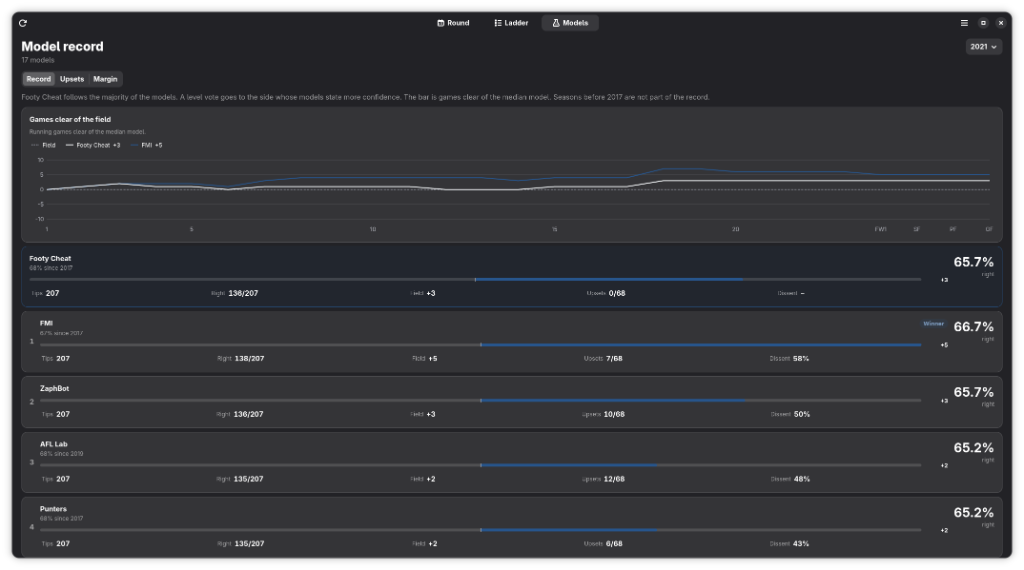
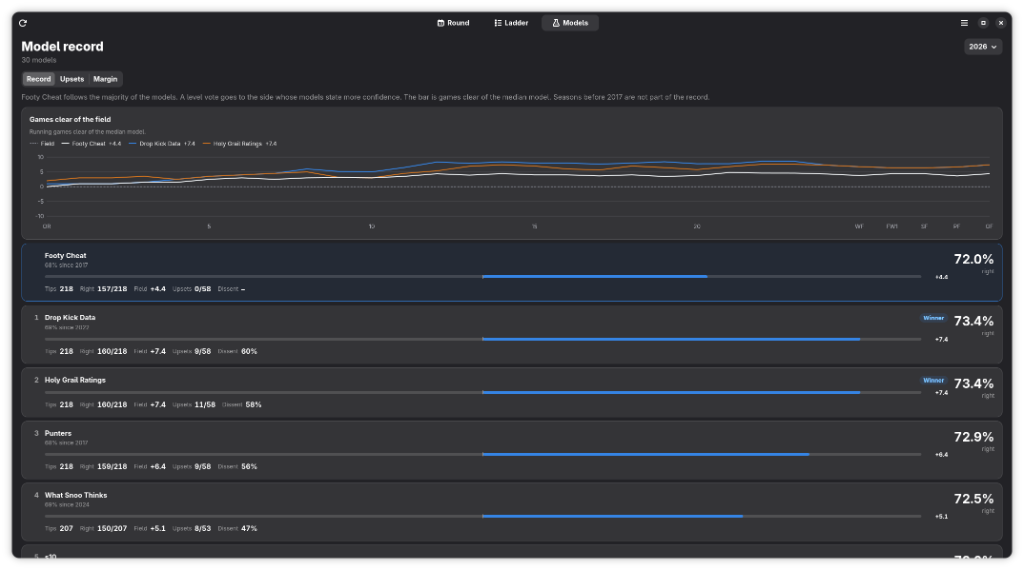
Polish Models and Round layout, keep the system accent without a club, and mark 0.1.4.

diff --git a/footy_cheat/ui/models_page.py b/footy_cheat/ui/models_page.py
@@ -15,10 +15,11 @@ from ..format import format_clear, format_percent
 from ..theme import accent_for
 from .widgets import PageHeader, YearMenu, clear, empty_pane, label, pill, scrolled
 
+# Kept away from Adwaita's default blue so a second leader stays readable.
 _LEADER_EXTRAS = (
-    (0.22, 0.48, 0.75, 1.0),
     (0.82, 0.45, 0.12, 1.0),
-    (0.45, 0.38, 0.62, 1.0),
+    (0.18, 0.68, 0.58, 1.0),
+    (0.62, 0.38, 0.72, 1.0),
 )
 
 
@@ -115,8 +116,7 @@ class ModelsPage(Gtk.Box):
         card.add_css_class("model-card")
         if pinned:
             card.add_css_class("footy")
-        if rank is not None:
-            card.append(label(str(rank), "dim-label", "figures"))
+        card.append(_rank_label(rank))
         text = Gtk.Box(orientation=Gtk.Orientation.VERTICAL, spacing=8)
         text.set_hexpand(True)
         title = Gtk.Box(orientation=Gtk.Orientation.VERTICAL, spacing=2)
@@ -133,13 +133,9 @@ class ModelsPage(Gtk.Box):
         ahead.set_width_chars(6)
         bar_row.append(ahead)
         text.append(bar_row)
-        wrap = Gtk.FlowBox()
-        wrap.set_selection_mode(Gtk.SelectionMode.NONE)
-        wrap.set_max_children_per_line(5)
-        wrap.set_column_spacing(14)
-        wrap.set_row_spacing(4)
+        wrap = Gtk.Box(spacing=14)
         for title_text, value in _stats(row):
-            wrap.insert(_mini(title_text, value), -1)
+            wrap.append(_mini(title_text, value))
         text.append(wrap)
         card.append(text)
         hero, caption = _hero(row, self.sort)
@@ -238,13 +234,9 @@ class RaceChart(Gtk.Box):
         self.append(area)
 
     def _legend(self) -> Gtk.Widget:
-        box = Gtk.FlowBox()
-        box.set_selection_mode(Gtk.SelectionMode.NONE)
-        box.set_max_children_per_line(4)
-        box.set_column_spacing(14)
-        box.set_row_spacing(4)
+        box = Gtk.Box(spacing=14)
         box.set_halign(Gtk.Align.START)
-        box.insert(self._chip("field", 0, "Field"), -1)
+        box.append(self._chip("field", 0, "Field"))
         named = [line for line in self.board.lines if line.points and line.role == "footy"]
         named.extend(line for line in self.board.lines if line.points and line.role != "footy")
         leader_index = 0
@@ -254,7 +246,7 @@ class RaceChart(Gtk.Box):
                 index = leader_index
                 leader_index += 1
             text = f"{line.name}  {format_clear(line.points[-1])}"
-            box.insert(self._chip(line.role, index, text), -1)
+            box.append(self._chip(line.role, index, text))
         return box
 
     def _chip(self, kind: str, leader_index: int, text: str) -> Gtk.Widget:
@@ -461,10 +453,33 @@ def series_color(kind: str, leader_index: int, team_id: int | None) -> tuple[flo
         return (0.55, 0.56, 0.6, 0.95) if dark else (0.35, 0.36, 0.4, 0.9)
     if kind == "footy":
         return (0.94, 0.95, 0.96, 1.0) if dark else (0.12, 0.13, 0.15, 1.0)
+    primary = _leader_primary(team_id)
     if leader_index <= 0:
-        red, green, blue = _rgb(accent_for(team_id)[0])
-        return red, green, blue, 1.0
-    return _LEADER_EXTRAS[min(leader_index - 1, len(_LEADER_EXTRAS) - 1)]
+        return primary
+    return _distinct_leader(primary, leader_index)
+
+
+def _leader_primary(team_id: int | None) -> tuple[float, float, float, float]:
+    colors = accent_for(team_id)
+    if colors is None:
+        rgba = Adw.StyleManager.get_default().get_accent_color_rgba()
+        return rgba.red, rgba.green, rgba.blue, 1.0
+    red, green, blue = _rgb(colors[0])
+    return red, green, blue, 1.0
+
+
+def _distinct_leader(
+    primary: tuple[float, float, float, float], leader_index: int
+) -> tuple[float, float, float, float]:
+    ranked = sorted(_LEADER_EXTRAS, key=lambda color: -_color_distance(primary, color))
+    return ranked[min(leader_index - 1, len(ranked) - 1)]
+
+
+def _color_distance(
+    left: tuple[float, float, float, float], right: tuple[float, float, float, float]
+) -> float:
+    return sum((a - b) ** 2 for a, b in zip(left[:3], right[:3]))
+
 
 
 def _ink() -> tuple[float, float, float, float]:
@@ -541,6 +556,14 @@ def _badge(text: str) -> Gtk.Widget:
     badge = pill(text, "gold")
     badge.set_valign(Gtk.Align.CENTER)
     return badge
+
+
+def _rank_label(rank: int | None) -> Gtk.Widget:
+    widget = label("" if rank is None else str(rank), "dim-label", "figures")
+    widget.set_width_chars(2)
+    widget.set_xalign(1)
+    widget.set_valign(Gtk.Align.START)
+    return widget
 
 
 def _mini(title: str, value: str) -> Gtk.Widget:

diff --git a/footy_cheat/ui/round_page.py b/footy_cheat/ui/round_page.py
@@ -494,20 +494,25 @@ class RoundPage(Gtk.Box):
             box.append(self._stacked_side(game, teams, home=True))
             box.append(self._stacked_side(game, teams, home=False))
         else:
-            row = Gtk.Box(spacing=8)
-            row.append(self._wide_side(game, teams, home=True))
+            # CenterBox keeps the score dash on the card midline regardless of
+            # how long each club name is.
+            row = Gtk.CenterBox()
+            row.set_start_widget(self._wide_side(game, teams, home=True))
+            scores = Gtk.Box(spacing=8)
+            scores.set_valign(Gtk.Align.CENTER)
             home = label("–" if game.home_score is None else str(game.home_score), "score")
             home.set_width_chars(4)
-            home.set_xalign(0.5)
+            home.set_xalign(1)
             mark = label("–" if game.complete > 0 else "v", "dim-label")
             mark.set_xalign(0.5)
             away = label("–" if game.away_score is None else str(game.away_score), "score")
             away.set_width_chars(4)
-            away.set_xalign(0.5)
-            row.append(home)
-            row.append(mark)
-            row.append(away)
-            row.append(self._wide_side(game, teams, home=False))
+            away.set_xalign(0)
+            scores.append(home)
+            scores.append(mark)
+            scores.append(away)
+            row.set_center_widget(scores)
+            row.set_end_widget(self._wide_side(game, teams, home=False))
             box = Gtk.Box(orientation=Gtk.Orientation.VERTICAL, spacing=6)
             box.append(row)
         line = centre_line(game)
@@ -525,13 +530,11 @@ class RoundPage(Gtk.Box):
         text.set_hexpand(True)
         crest = self.crests.widget(team_id, name, teams, 50)
         row = Gtk.Box(spacing=10)
-        row.set_hexpand(True)
+        row.set_valign(Gtk.Align.CENTER)
         if home:
-            row.set_halign(Gtk.Align.END)
             row.append(text)
             row.append(crest)
         else:
-            row.set_halign(Gtk.Align.START)
             row.append(crest)
             row.append(text)
         return row

diff --git a/footy_cheat/theme.py b/footy_cheat/theme.py
@@ -37,9 +37,14 @@ def luminance(color: str) -> float:
     return 0.2126 * red + 0.7152 * green + 0.0722 * blue
 
 
-def accent_for(team_id: int | None) -> tuple[str, str]:
-    """Club fill colour, and a foreground that can sit on that fill."""
-    fill = "#E2B340" if team_id is None or team_id not in CLUBS else CLUBS[team_id][2]
+def accent_for(team_id: int | None) -> tuple[str, str] | None:
+    """Club fill colour and a foreground for that fill.
+
+    Returns None when no club is chosen so Adwaita can keep the system accent.
+    """
+    if team_id is None or team_id not in CLUBS:
+        return None
+    fill = CLUBS[team_id][2]
     on_fill = "#1A1406" if luminance(fill) > 0.42 else "#FFFFFF"
     return fill, on_fill
 
@@ -56,7 +61,10 @@ def readable_on_window(color: str, dark: bool) -> str:
 
 
 def accent_css(team_id: int | None, dark: bool) -> str:
-    fill, on_fill = accent_for(team_id)
+    colors = accent_for(team_id)
+    if colors is None:
+        return ""
+    fill, on_fill = colors
     text = readable_on_window(fill, dark)
     return f"""
     @define-color accent_color {text};

diff --git a/footy_cheat/ui/preferences.py b/footy_cheat/ui/preferences.py
@@ -58,7 +58,10 @@ class PreferencesDialog(Adw.PreferencesDialog):
         appearance.add(self.size_row)
         self.club_group = Adw.PreferencesGroup(
             title="Club colours",
-            description="The accent follows the club you support. Scores and text stay easy to read.",
+            description=(
+                "System follows this computer's accent. Pick a club to use its colours instead. "
+                "Scores and text stay easy to read."
+            ),
         )
         page.add(appearance)
         page.add(self.club_group)
@@ -165,7 +168,7 @@ class PreferencesDialog(Adw.PreferencesDialog):
             for row, _team_id, _check in self._club_rows:
                 self.club_group.remove(row)
             self._club_rows.clear()
-            self._add_club("Default", None, teams)
+            self._add_club("System", None, teams)
             for team_id, (name, _wash, _gold) in CLUBS.items():
                 label_name = name
                 for team in teams:

diff --git a/footy_cheat/ui/window.py b/footy_cheat/ui/window.py
@@ -123,9 +123,12 @@ class FootyWindow(Adw.ApplicationWindow):
         keys.connect("key-pressed", self._key)
         self.add_controller(keys)
         self.connect("close-request", self._close)
-        Adw.StyleManager.get_default().connect("notify::dark", lambda *_: self.apply_theme())
+        style = Adw.StyleManager.get_default()
+        style.connect("notify::dark", lambda *_: self.apply_theme())
+        style.connect("notify::accent-color", lambda *_: self.apply_theme())
         controller.add_listener(self.refresh)
         self.refresh()
+
 
     def _install_style(self, icon_dir: Path, css_path: Path) -> None:
         display = Gdk.Display.get_default()

diff --git a/tests/test_theme.py b/tests/test_theme.py
@@ -17,6 +17,11 @@ def _contrast(left: float, right: float) -> float:
 
 
 class ThemeTests(unittest.TestCase):
+    def test_no_club_leaves_the_system_accent_alone(self):
+        self.assertIsNone(accent_for(None))
+        self.assertEqual(accent_css(None, False), "")
+        self.assertEqual(accent_css(None, True), "")
+
     def test_a_bright_club_is_darkened_for_text_on_a_light_window(self):
         fill, _on_fill = accent_for(8)
         self.assertEqual(fill, "#FFC20E")

diff --git a/footy_cheat/__init__.py b/footy_cheat/__init__.py
@@ -1,4 +1,4 @@
 """Footy Cheat, a GNOME AFL tipping app."""
 
 APP_ID = "io.github.kakwit.FootyCheat"
-__version__ = "0.1.3"
+__version__ = "0.1.4"

diff --git a/README.md b/README.md
@@ -1,6 +1,16 @@
+<p align="center">
+  <img src="footy_cheat/assets/icons/hicolor/scalable/apps/io.github.kakwit.FootyCheat.svg" alt="Footy Cheat" width="128" height="128">
+</p>
+
 # Footy Cheat
 
 GNOME AFL tipping app. It keeps a local copy of the public [Squiggle API](https://api.squiggle.com.au/) and rates the computer models against the results. The window is a GTK 4 and libadwaita application. The tip on each game is the majority of the models.
+
+<p align="center">
+  <a href="data/screenshots/round.png"><img src="data/screenshots/round.png" alt="Round" width="280"></a>
+  <a href="data/screenshots/ladder.png"><img src="data/screenshots/ladder.png" alt="Ladder" width="280"></a>
+  <a href="data/screenshots/models.png"><img src="data/screenshots/models.png" alt="Models" width="280"></a>
+</p>
 
 ## Requirements
 
